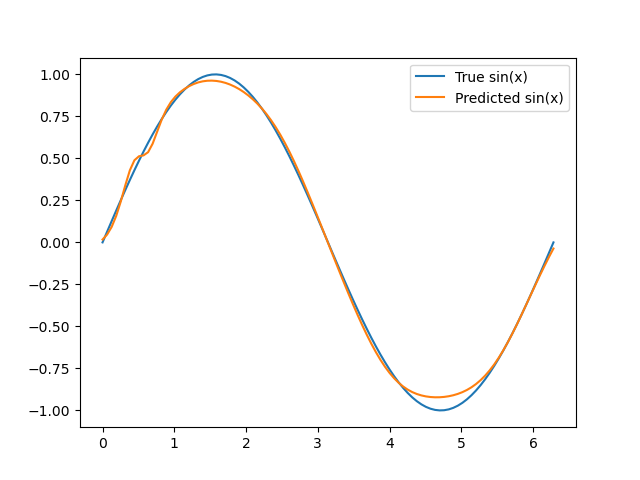
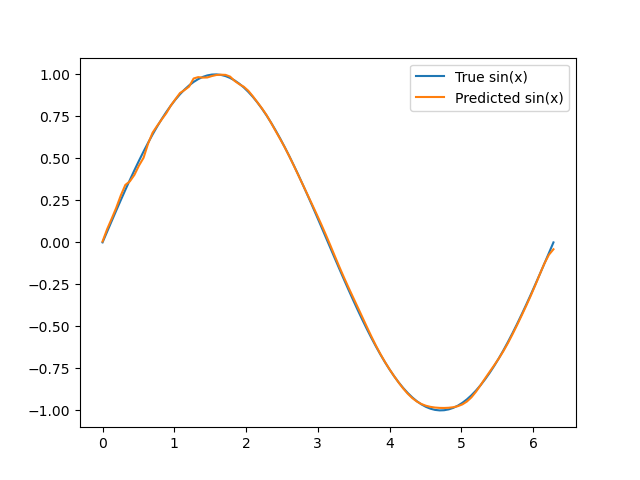
correct model

diff --git a/multi_train.py b/multi_train.py
@@ -44,14 +44,14 @@ def multi_shot(x, y, layers_per_segment, units, epochs, learning_rate):
 
         # Train segment 2
         with tf.GradientTape() as tape2:
-            intermediate2_output = segment2(intermediate1_output, training=True)
+            intermediate2_output = segment2(middle_state0, training=True)
             loss2 = mse_loss(intermediate2_output, middle_state1)
         gradients2 = tape2.gradient(loss2, segment2.trainable_variables + [middle_state1])
         optimizer.apply_gradients(zip(gradients2, segment2.trainable_variables + [middle_state1]))
 
         # Train segment 3
         with tf.GradientTape() as tape3:
-            predictions = segment3(intermediate2_output, training=True)
+            predictions = segment3(middle_state1, training=True)
             loss3 = mse_loss(predictions, y)
         gradients3 = tape3.gradient(loss3, segment3.trainable_variables)
         optimizer.apply_gradients(zip(gradients3, segment3.trainable_variables))
@@ -63,9 +63,13 @@ def multi_shot(x, y, layers_per_segment, units, epochs, learning_rate):
 
     return full_model, loss_record
 
-def plot(x, y, predictions, name):
-    plt.plot(x, y, label=name[0])
-    plt.plot(x, predictions, label=name[1])
+def plot(x, y, predictions, name, loss: bool = True):
+    if loss: 
+        plt.plot(x, np.log(y), label=name[0])
+        plt.plot(x, np.log(predictions), label=name[1])
+    else:
+        plt.plot(x, y, label=name[0])
+        plt.plot(x, predictions, label=name[1])
     plt.legend()
     plt.pause(1)
     if not os.path.exists("images"):
@@ -81,17 +85,17 @@ def main():
         x, y,
         layers_per_segment=2,
         units=16,
-        epochs=1000,
+        epochs=5000,
         learning_rate=0.001
     )
 
     predictions = model.predict(x)
     plot(x, y, predictions,
-         ["True sin(x)", "Predicted sin(x)", "results"])
+         ["True sin(x)", "Predicted sin(x)", "results"], loss=False)
     plot(range(len(loss_record)), 
          [record[0] for record in loss_record], 
          [record[1] for record in loss_record], 
-         ["segements loss", "full model loss", "losses"])
+         ["segements loss", "full model loss", "losses"], loss=True)
 
 if __name__ == "__main__":
     main()
